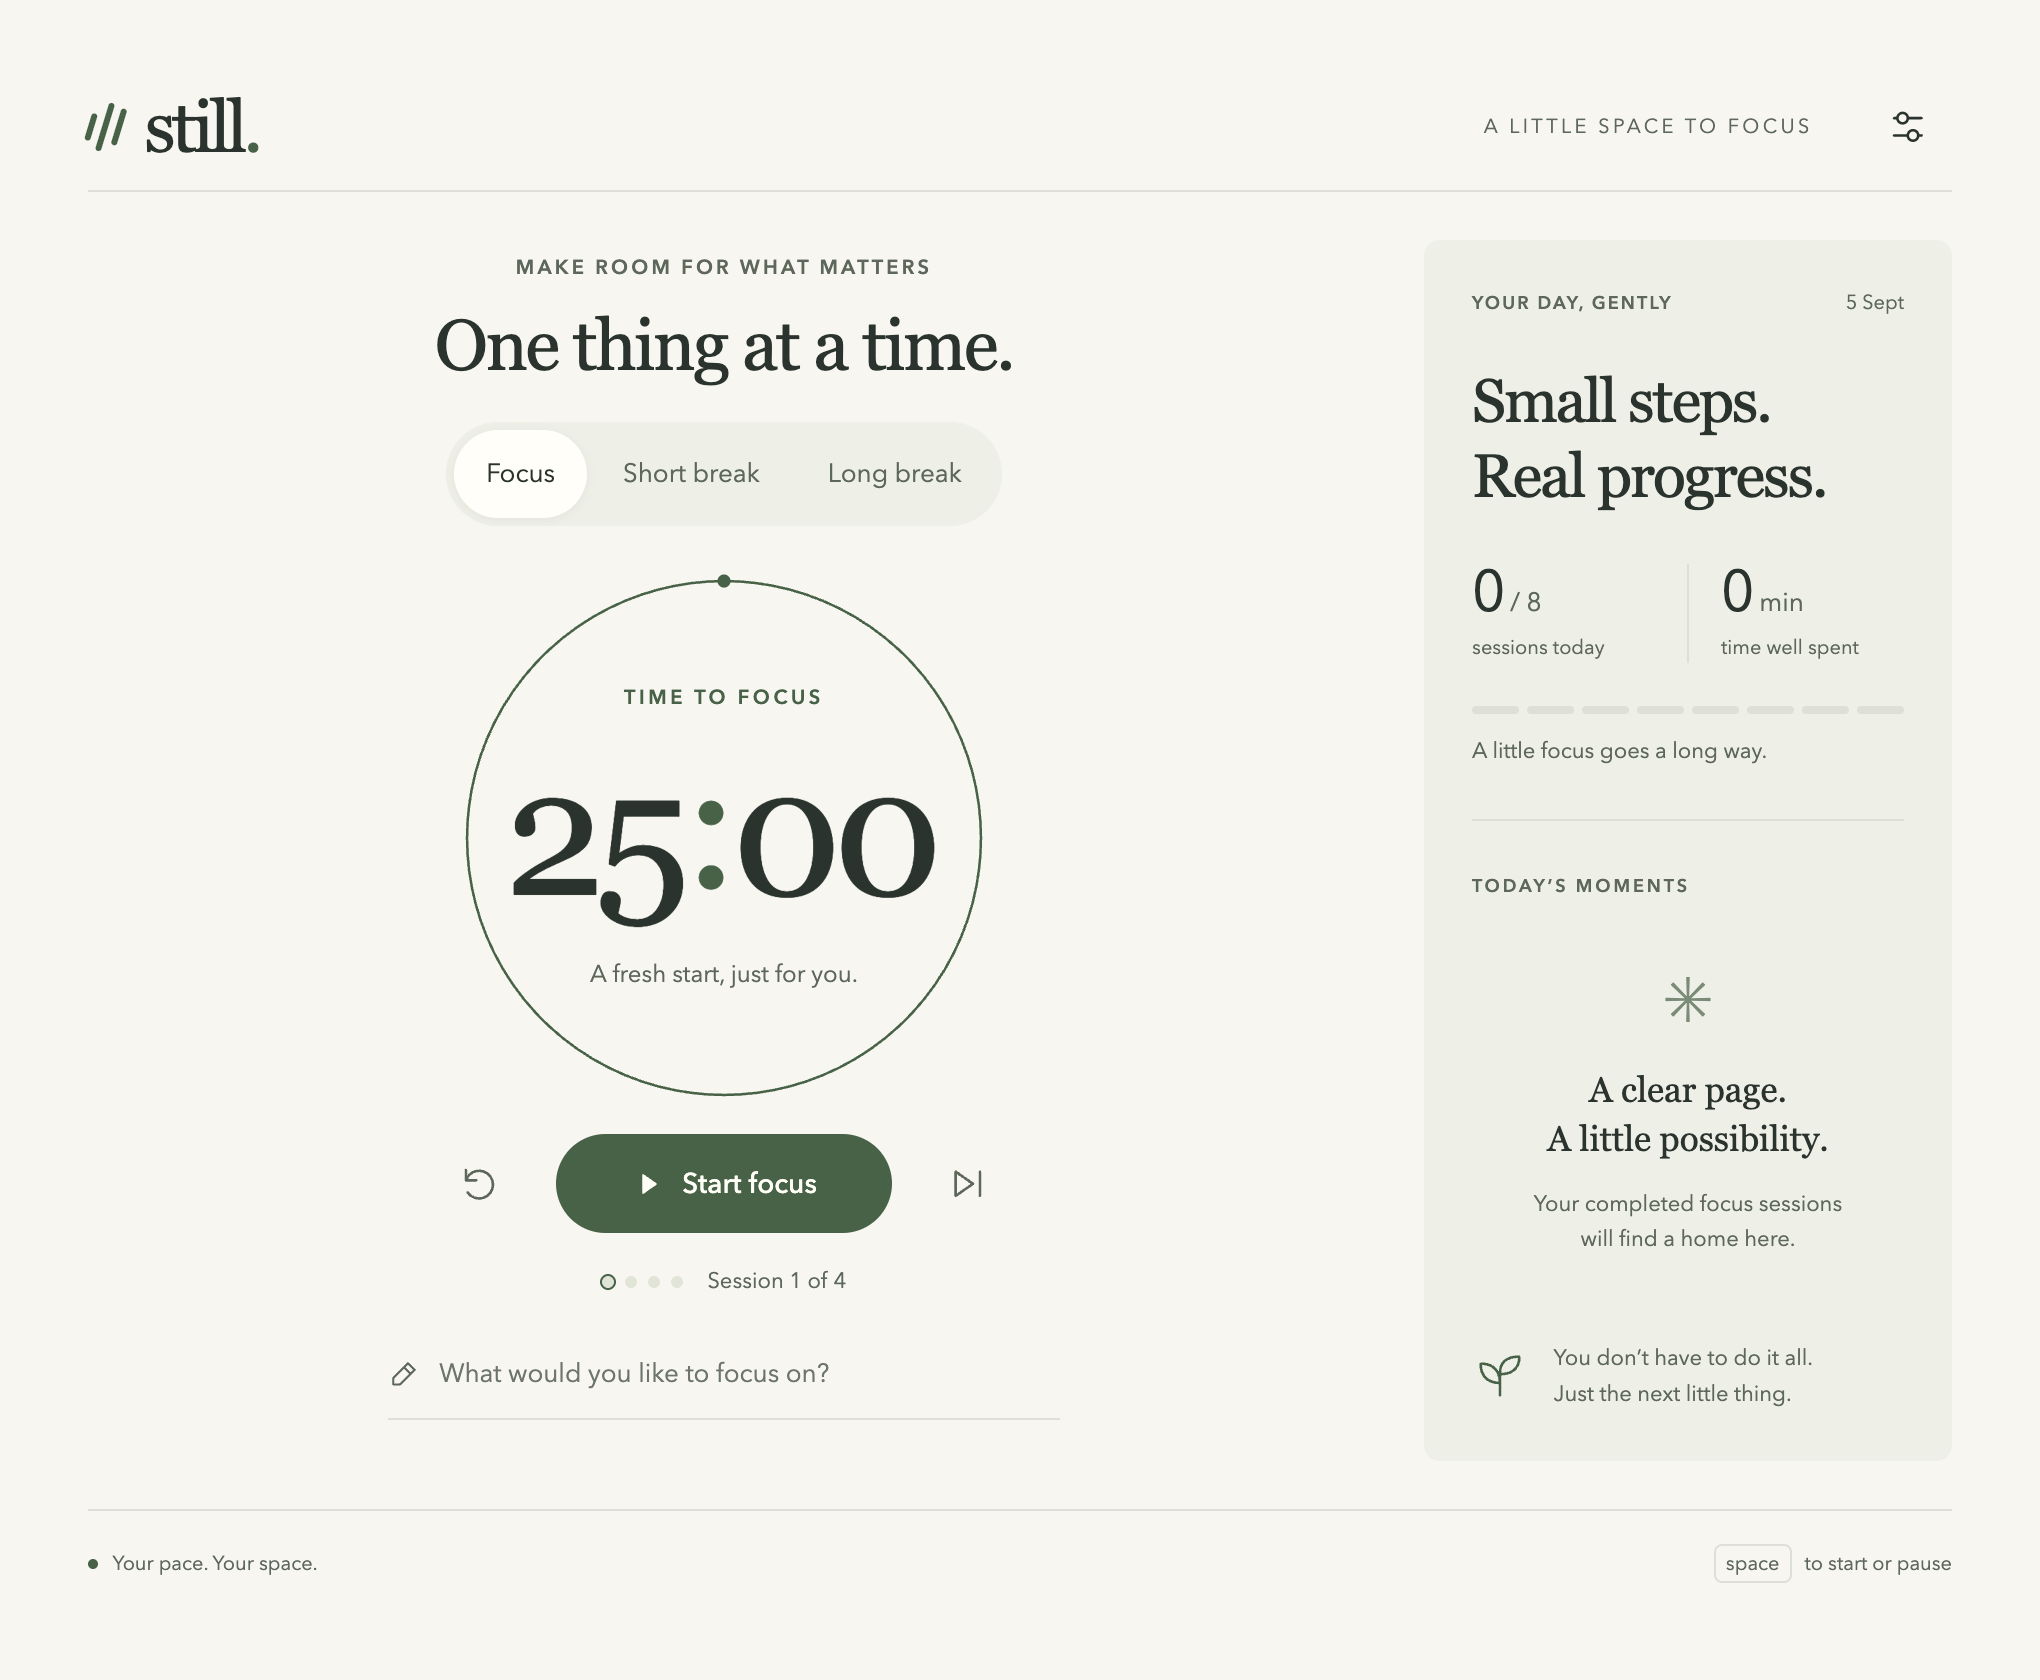
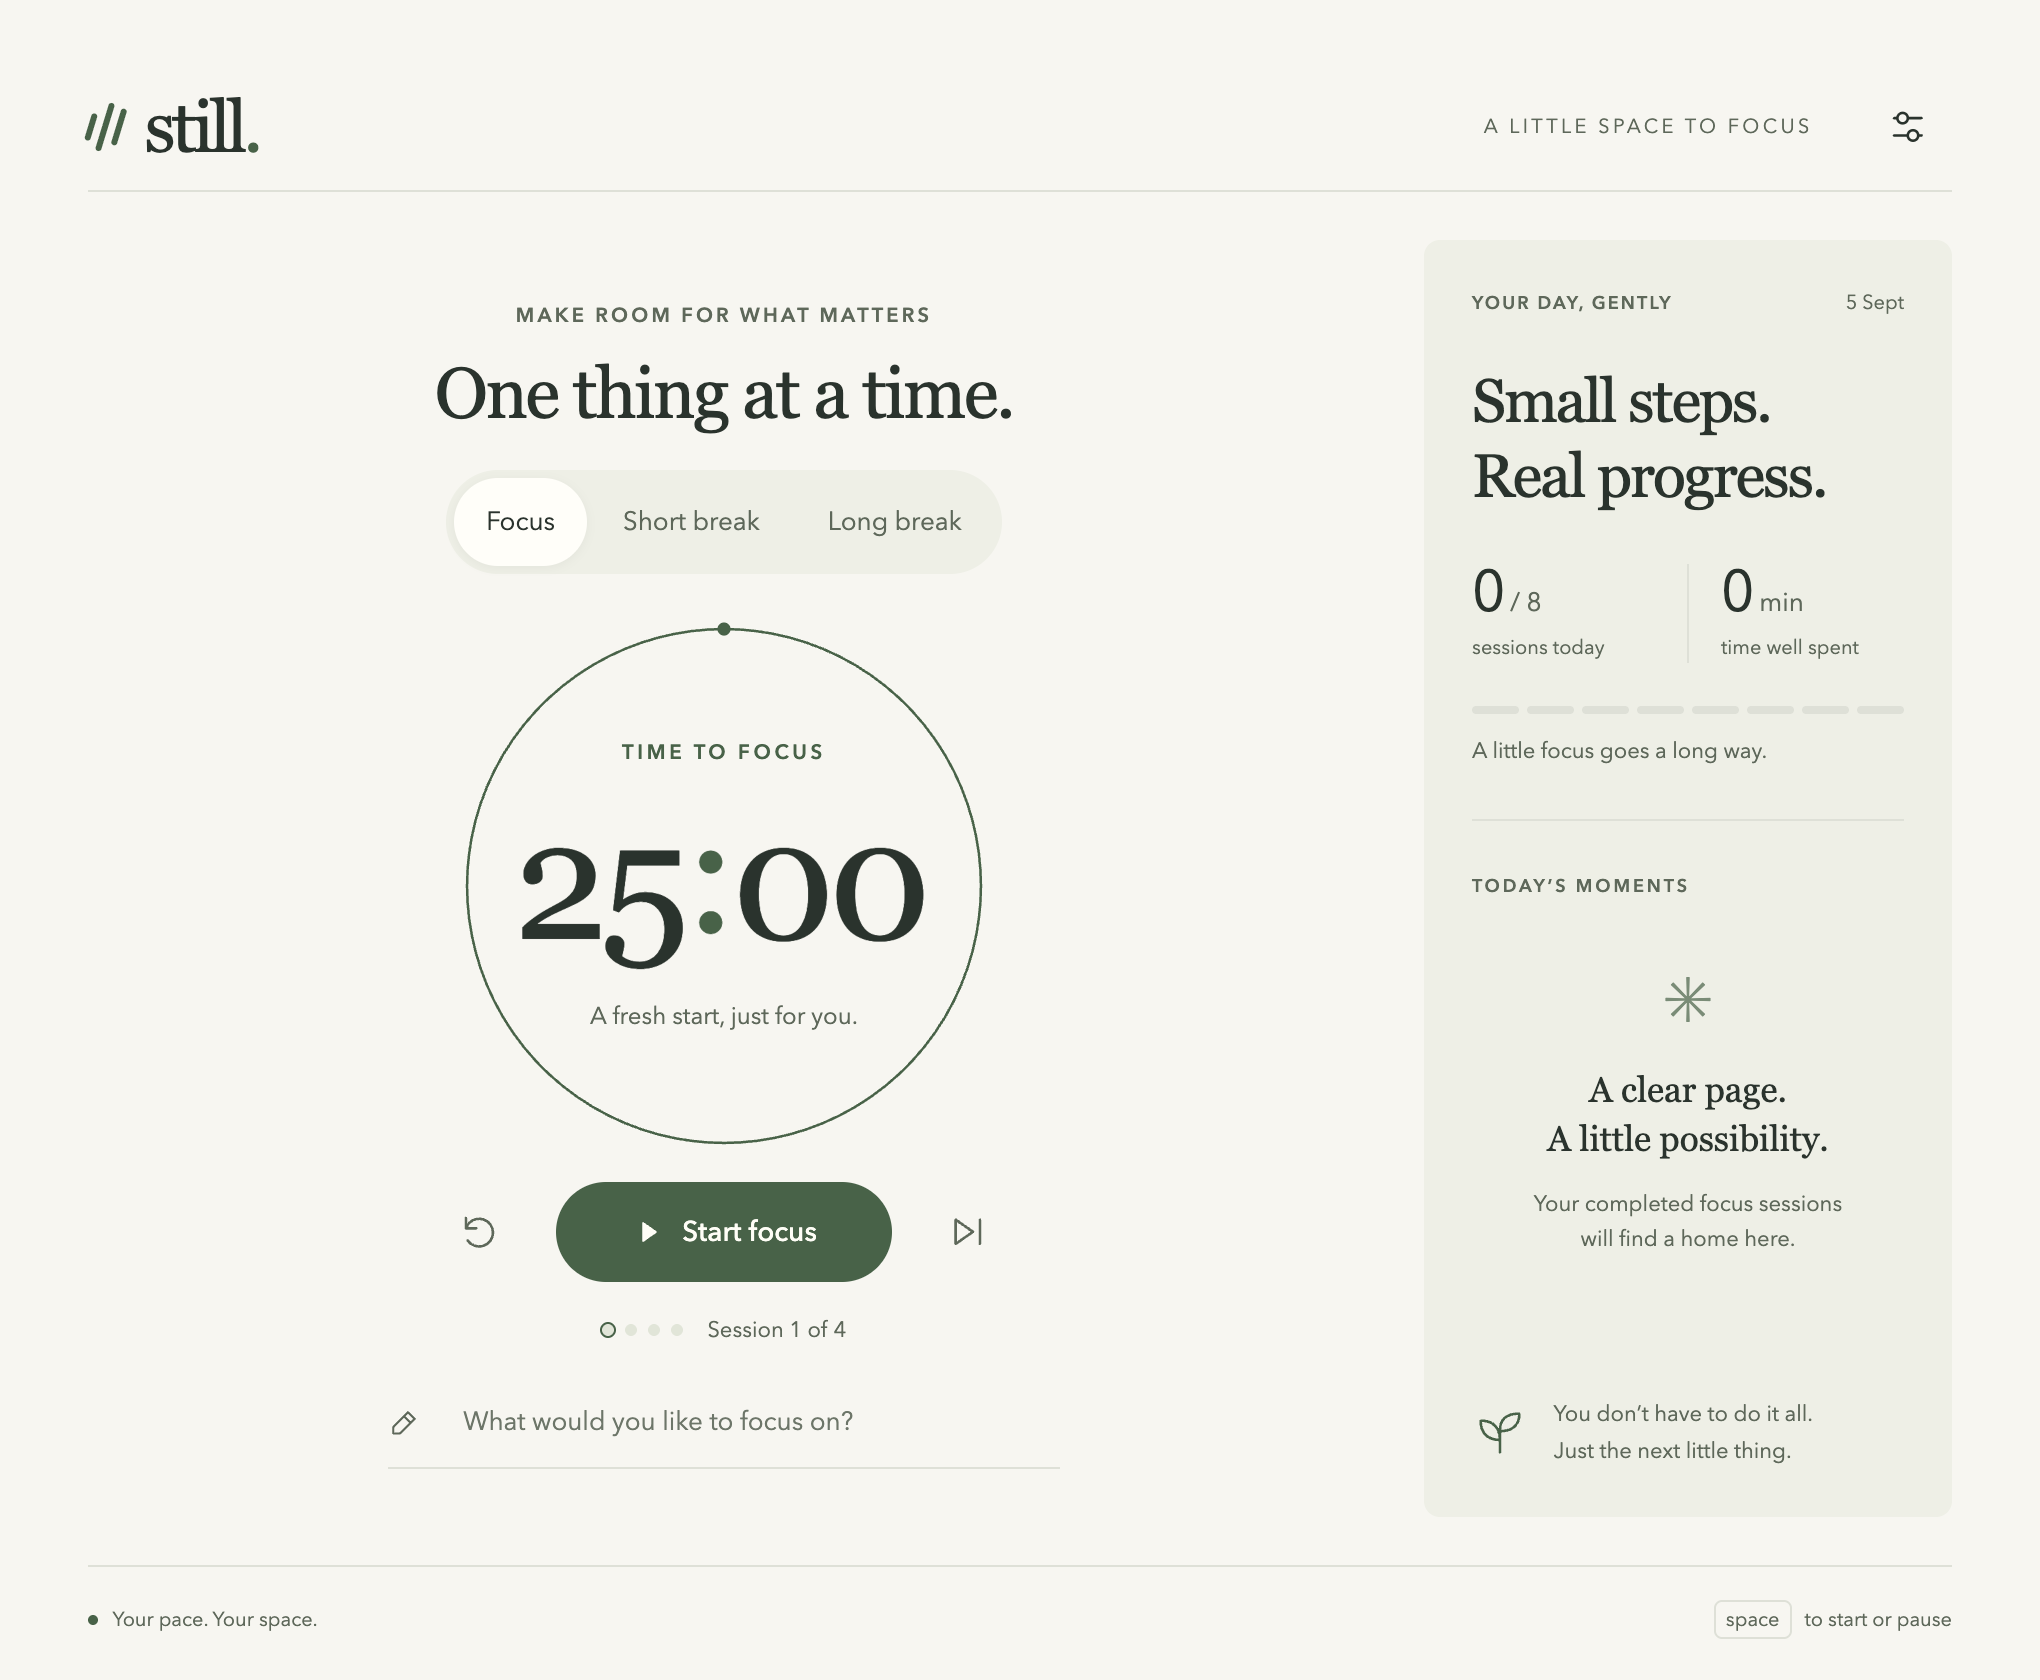
Make desktop layout fluid and pad the focus input

diff --git a/src/style.css b/src/style.css
@@ -11,7 +11,8 @@ button:focus-visible,a:focus-visible,input:focus-visible,select:focus-visible { 
 button:disabled { opacity:.5; cursor:wait; }
 svg { width:1.3rem; height:1.3rem; fill:none; stroke:currentColor; stroke-width:1.5; stroke-linecap:round; stroke-linejoin:round; flex-shrink:0; }
 .titlebar { height:2rem; -webkit-app-region:drag; }
-.app { width:100%; max-width:76rem; margin:auto; padding:0 1.5rem; }
+.app { width:100%; min-height:calc(100dvh - 2rem); display:flex; flex-direction:column; padding:0 1.5rem; }
+.app-header,footer { flex-shrink:0; }
 .app-header { height:4rem; display:flex; align-items:center; justify-content:space-between; border-bottom:1px solid var(--line); -webkit-app-region:drag; }
 .brand { text-decoration:none; color:var(--text); font-family:Georgia, 'Times New Roman', serif; font-size:2.25rem; letter-spacing:-.12rem; display:flex; align-items:center; line-height:1; }
 .brand-dot { color:var(--accent); }
@@ -22,24 +23,24 @@ svg { width:1.3rem; height:1.3rem; fill:none; stroke:currentColor; stroke-width:
 .icon-button { background:transparent; width:2.75rem; height:2.75rem; border-radius:50%; display:inline-flex; align-items:center; justify-content:center; transition:background .15s,transform .15s; }
 .icon-button:hover { background:var(--accent-soft); }.icon-button:active { transform:scale(.94); }
 .icon-button circle { fill:var(--bg); }
-main { display:grid; grid-template-columns:minmax(0,1fr); }
-.workspace { padding:2.25rem 0 1.5rem; display:flex; flex-direction:column; align-items:center; min-width:0; }
+main { display:grid; flex:1; grid-template-columns:minmax(0,1fr); }
+.workspace { --timer-size:clamp(17.5rem,min(32vw,calc(100dvh - 35rem)),34rem); padding:2.25rem 0 1.5rem; display:flex; flex-direction:column; align-items:center; justify-content:center; min-width:0; }
 .intro { text-align:center; }.eyebrow { font-size:.625rem; letter-spacing:.16em; font-weight:600; color:var(--muted); }
 h1,h2,p { margin:0; }h1,h2 { font-family:Georgia,'Times New Roman',serif; font-weight:400; }
-h1 { font-size:clamp(1.8rem,3.5vw,2.35rem); letter-spacing:-.07rem; margin:.4rem 0 1rem; line-height:1.25; }
+h1 { font-size:clamp(1.8rem,min(3.5vw,4.5vh),3rem); letter-spacing:-.07rem; margin:.4rem 0 1rem; line-height:1.25; }
 .mode-switch { display:flex; background:var(--panel); padding:4px; border-radius:2rem; gap:2px; max-width:100%; }
 .mode-switch button { min-height:2.75rem; padding:0 1rem; border-radius:2rem; background:transparent; font-size:.8125rem; color:var(--muted); white-space:nowrap; }
 .mode-switch button[aria-pressed="true"] { background:var(--surface); color:var(--text); box-shadow:0 1px 5px #1624150d; }
 .mode-switch button:hover { color:var(--text); }
-.timer-face { width:min(17.5rem,100%); aspect-ratio:1; position:relative; margin:1rem 0 .5rem; display:grid; place-items:center; }
+.timer-face { width:min(var(--timer-size),100%); aspect-ratio:1; flex-shrink:0; position:relative; margin:1rem 0 .5rem; display:grid; place-items:center; }
 .timer-ring { width:100%; height:100%; position:absolute; inset:0; overflow:visible; stroke-width:1.5; }
 .ring-track { stroke:var(--track); }.ring-dot { fill:var(--accent); stroke:none; }
 #ring-progress { stroke:var(--accent); stroke-dasharray:100; stroke-dashoffset:0; transform:rotate(-90deg); transform-origin:center; transition:stroke-dashoffset .3s linear; }
 .timer-center { position:relative; display:flex; flex-direction:column; align-items:center; }
-.timer-status { color:var(--accent); font-size:.625rem; letter-spacing:.18em; font-weight:600; }
-#time { font-family:Georgia,'Times New Roman',serif; font-size:clamp(4.9rem,11vw,5.6rem); line-height:1.25; letter-spacing:-.28rem; font-variant-numeric:tabular-nums; font-weight:400; margin:.25rem .3rem .4rem 0; }
+.timer-status { color:var(--accent); font-size:clamp(.625rem,1vw,.8125rem); letter-spacing:.18em; font-weight:600; }
+#time { font-family:Georgia,'Times New Roman',serif; font-size:clamp(4.9rem,calc(var(--timer-size) * .3),10rem); line-height:1.25; letter-spacing:-.04em; font-variant-numeric:tabular-nums; font-weight:400; margin:.25rem .3rem .4rem 0; }
 #time span { display:inline-block; transform:translateY(-.04em); margin:0 .01em; font-weight:400; color:var(--accent); }
-#timer-caption { color:var(--muted); font-size:.75rem; }
+#timer-caption { color:var(--muted); font-size:clamp(.75rem,1.1vw,.9375rem); }
 .timer-controls { display:flex; align-items:center; gap:1rem; }
 .secondary-control { color:var(--muted); }
 .primary-button { min-height:3.1rem; padding:.75rem 1.6rem; background:var(--accent); color:var(--button-text); border-radius:2rem; display:inline-flex; align-items:center; justify-content:center; gap:.6rem; font-size:.875rem; font-weight:500; transition:filter .15s,transform .15s; }
@@ -47,8 +48,8 @@ h1 { font-size:clamp(1.8rem,3.5vw,2.35rem); letter-spacing:-.07rem; margin:.4rem
 #toggle { min-width:10.5rem; }#play-icon { width:1rem; height:1rem; fill:currentColor; stroke-width:1; }
 .cycle { display:flex; align-items:center; gap:.75rem; margin-top:1rem; color:var(--muted); font-size:.6875rem; }
 #cycle-dots { display:flex; gap:.35rem; }#cycle-dots i { height:6px; width:6px; background:var(--track); border-radius:50%; }#cycle-dots i.done { background:var(--accent); }#cycle-dots i.current { box-shadow:0 0 0 1px var(--accent); }
-.intention { display:flex; gap:.6rem; width:100%; max-width:21rem; margin-top:1rem; align-items:center; border-bottom:1px solid var(--line); color:var(--muted); }
-.intention svg { width:1rem; }.intention input { width:100%; border:none; outline-offset:0; padding:.7rem 0; min-height:2.75rem; background:transparent; color:var(--text); font-size:.8125rem; }.intention input::placeholder { color:var(--muted); opacity:.9; }
+.intention { display:flex; gap:.6rem; width:100%; max-width:max(21rem,var(--timer-size)); margin-top:1rem; align-items:center; border-bottom:1px solid var(--line); color:var(--muted); }
+.intention svg { width:1rem; }.intention input { width:100%; min-width:0; border:none; border-radius:.35rem; outline-offset:0; padding:.7rem .75rem; min-height:2.75rem; background:transparent; color:var(--text); font-size:.8125rem; }.intention input::placeholder { color:var(--muted); opacity:.9; }
 .today { background:var(--panel); border-radius:.5rem; padding:1.75rem; margin:1rem 0 2rem; display:flex; flex-direction:column; min-width:0; }
 .today-heading { display:flex; flex-wrap:wrap; gap:.4rem; justify-content:space-between; align-items:center; }.today-heading .eyebrow { font-size:.5625rem; letter-spacing:.12em; }#date { color:var(--muted); font-size:.625rem; white-space:nowrap; }
 .today h2 { font-size:1.9rem; line-height:1.22; letter-spacing:-.06rem; margin:1.45rem 0 1.6rem; }
@@ -70,5 +71,5 @@ dialog { scrollbar-width:thin; }
 .dialog-footer { position:sticky; bottom:-1.7rem; background:var(--bg); padding:.75rem 0; margin-bottom:-1rem; border-top:1px solid var(--line); }
 @media (min-width:640px) { .app { padding:0 2.5rem; }.tagline,.keyboard-hint { display:inline; }.workspace { padding-top:1.5rem; } }
 @media (min-width:768px) { main { grid-template-columns:minmax(0,1fr) 16.5rem; gap:2rem; }.today { margin:1.5rem 0; padding:1.5rem; }.workspace { padding-bottom:1.5rem; }.app { padding:0 2.75rem; }.stats { gap:1rem; }.stats>div+div { padding-left:1rem; } }
-@media (min-width:1024px) { main { gap:3rem; grid-template-columns:minmax(0,1fr) 18rem; }.app { padding:0 3.25rem; }.today { padding:1.8rem; } }
+@media (min-width:1024px) { main { gap:clamp(2rem,4vw,5rem); grid-template-columns:minmax(0,1fr) clamp(18rem,23vw,24rem); }.app { padding:0 clamp(2.75rem,4vw,6rem); }.today { padding:clamp(1.8rem,2.4vw,3rem); }.today h2 { font-size:clamp(1.9rem,2.6vw,2.6rem); } }
 @media (prefers-reduced-motion:reduce) { *,*::before { transition:none!important; } }
